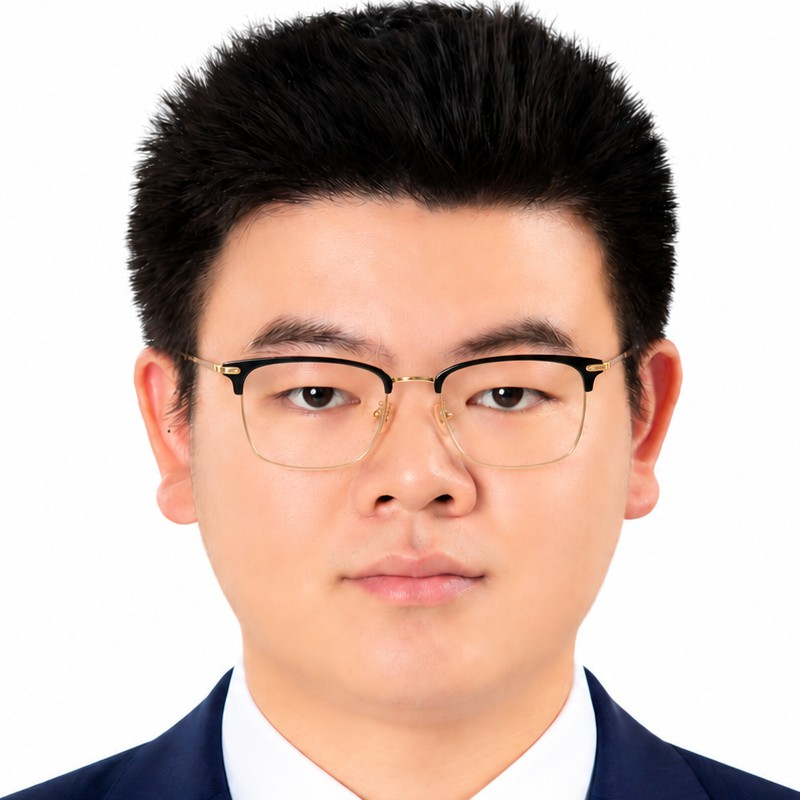
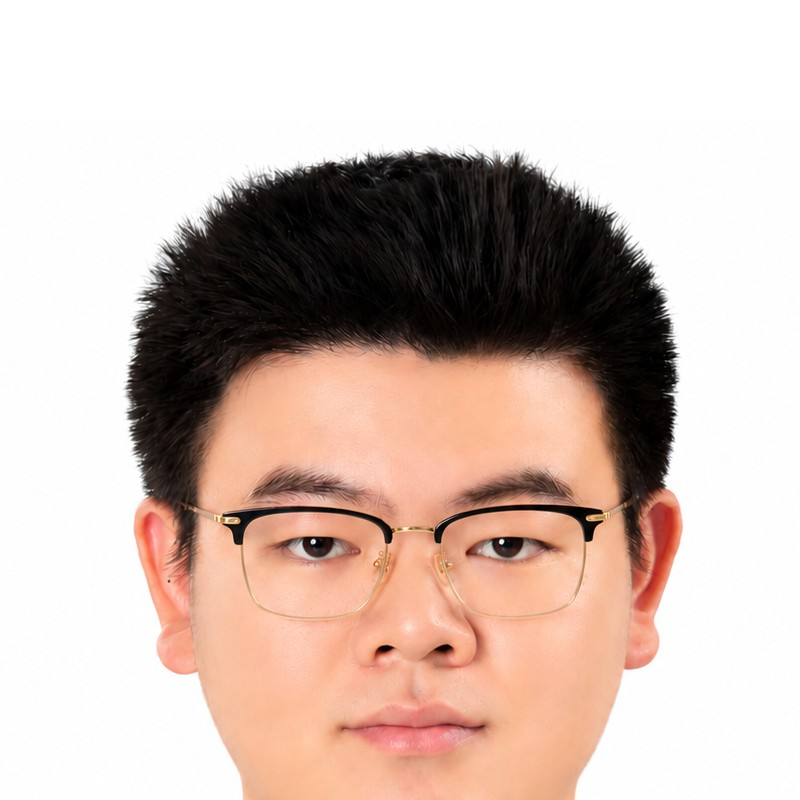
style: 头像放大到140px并重新裁剪脸居中

diff --git a/themes/wenfang/source/css/style.css b/themes/wenfang/source/css/style.css
@@ -547,10 +547,10 @@ a { color: inherit; text-decoration: none; }
 }
 .profile-avatar-wrap {
   position: relative;
-  width: 112px;
-  height: 112px;
-  margin-bottom: 18px;
-  padding: 8px;
+  width: 140px;
+  height: 140px;
+  margin-bottom: 20px;
+  padding: 10px;
   border-radius: 50%;
   background: var(--bg-deep);
   box-shadow: 0 0 0 1px var(--border-warm);
